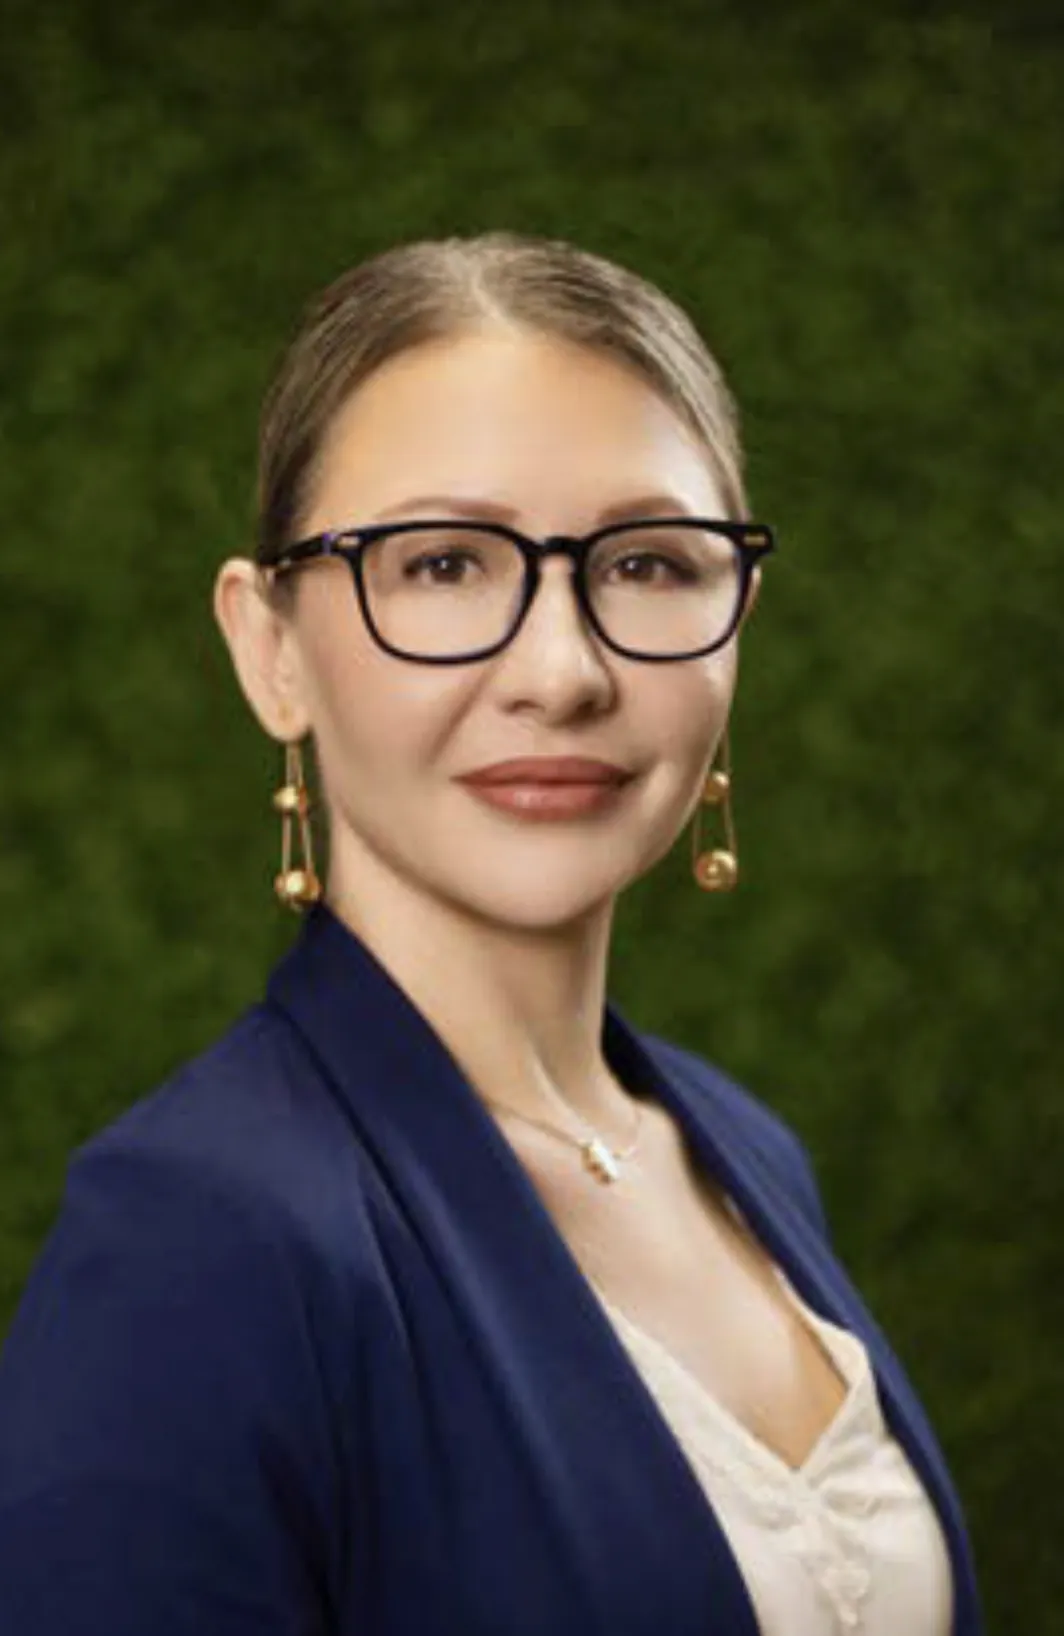
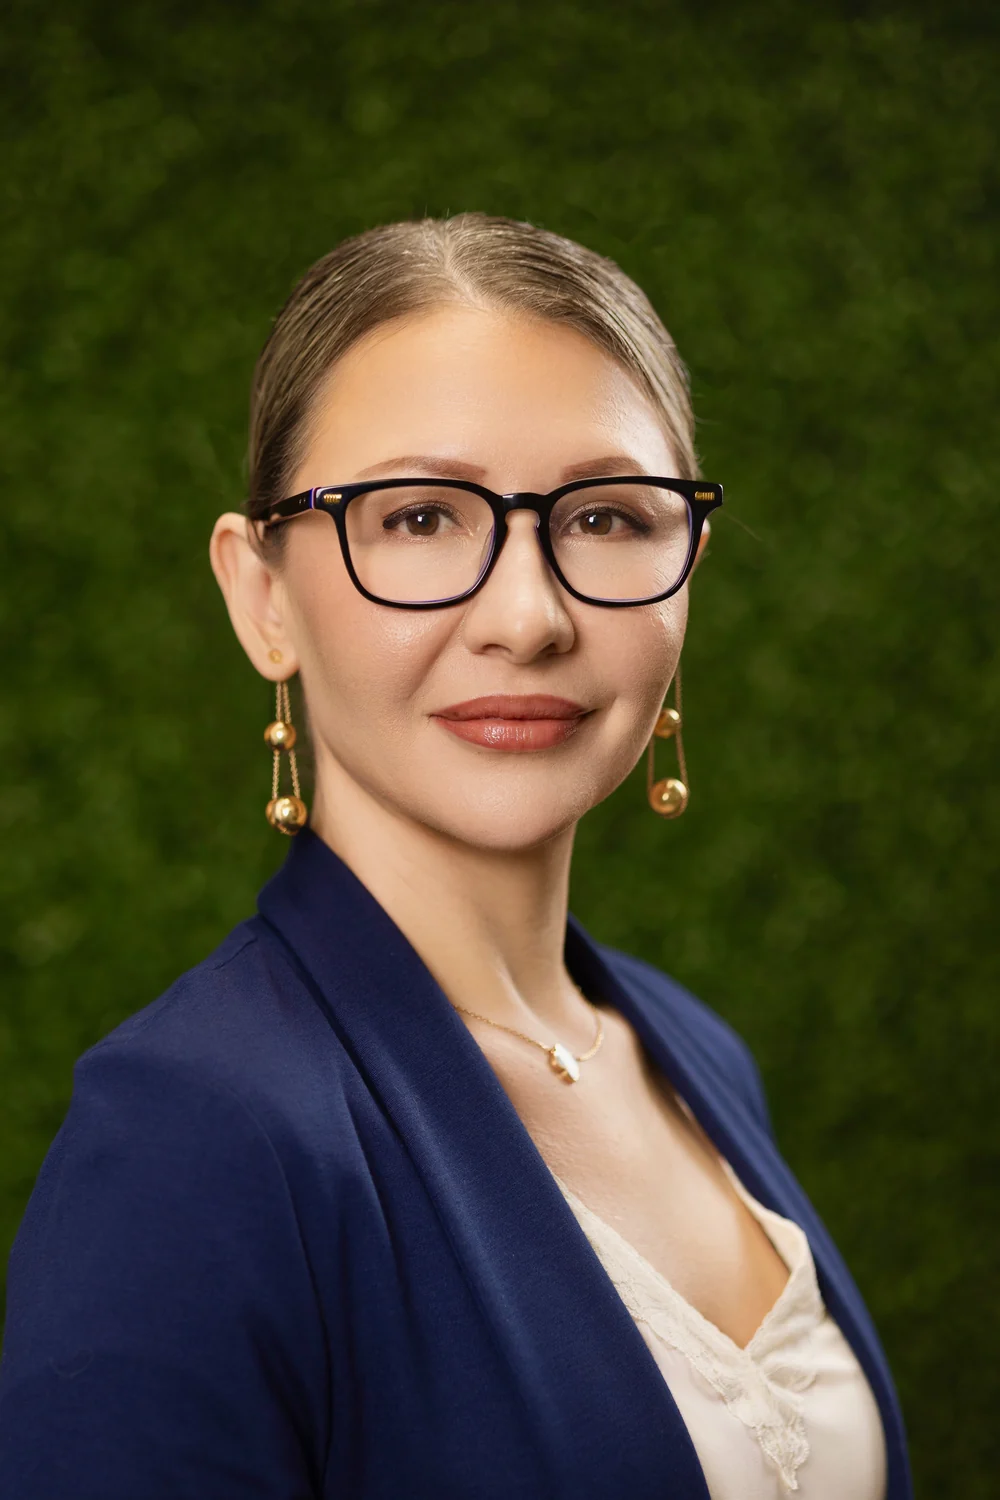
feat(team): replace low-res team portraits with client hi-res photos
Replace team-ksenia/kenneth/laudin.webp with the client's hi-res
studio portraits (1000x1500, 2:3). Kenneth/Laudin were 274x411
(upscaled/soft); Ksenia refreshed to match. Updates imageDimensions.
Used on the homepage (WhoWeAre) and the About page (which reuses it).

diff --git a/src/data/imageDimensions.ts b/src/data/imageDimensions.ts
@@ -109,11 +109,11 @@ export const IMG_DIMS: Record<string, { w: number; h: number }> = {
   "/assets/images/services/weight-loss/what-is.webp": { w: 2048, h: 1366 },
   "/assets/images/services/weight-loss/who-is-for.webp": { w: 543, h: 656 },
   "/assets/images/team-kenneth.png": { w: 274, h: 411 },
-  "/assets/images/team-kenneth.webp": { w: 274, h: 411 },
+  "/assets/images/team-kenneth.webp": { w: 1000, h: 1500 },
   "/assets/images/team-ksenia.png": { w: 1064, h: 1636 },
-  "/assets/images/team-ksenia.webp": { w: 1064, h: 1636 },
+  "/assets/images/team-ksenia.webp": { w: 1000, h: 1500 },
   "/assets/images/team-laudin.png": { w: 274, h: 411 },
-  "/assets/images/team-laudin.webp": { w: 274, h: 411 },
+  "/assets/images/team-laudin.webp": { w: 1000, h: 1500 },
   "/assets/images/team-reception.png": { w: 2054, h: 1368 },
   "/assets/images/team-reception.webp": { w: 2054, h: 1368 },
   "/assets/images/treatment-emface.png": { w: 2300, h: 1406 },